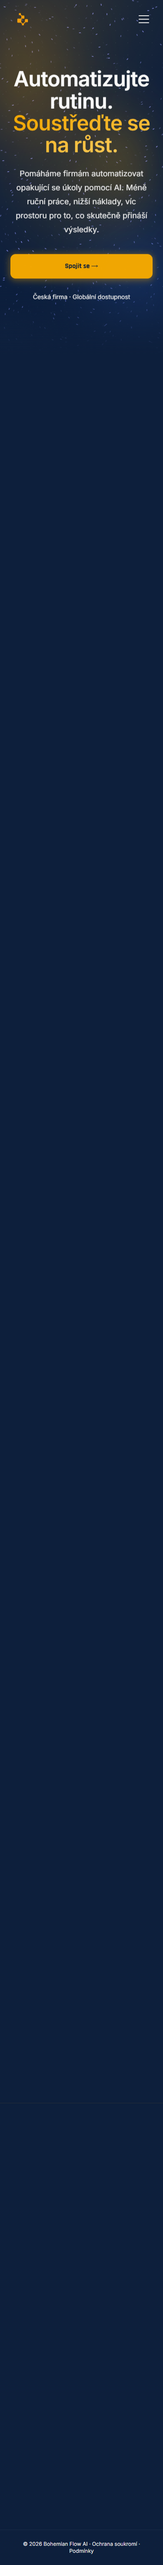
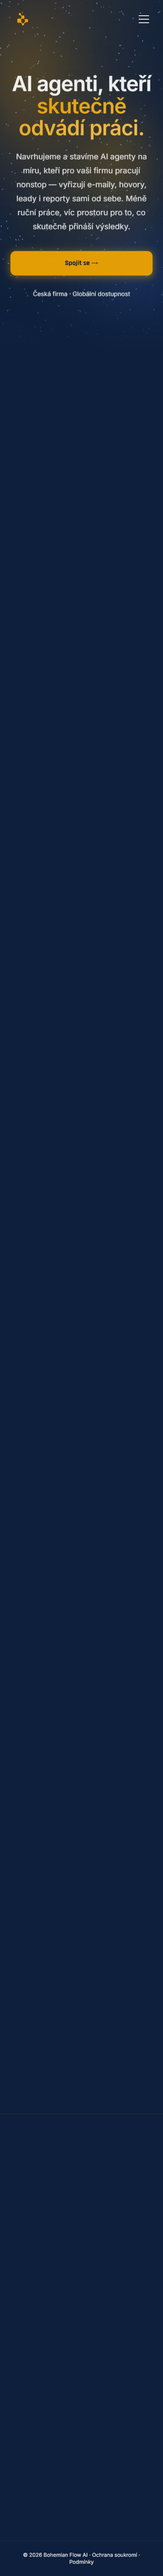
Niche down positioning to Custom AI Agents
Reframe site copy from broad AI automation agency to custom AI agents: hero, nav, footer, and all 8 topic cards now speak in agent terms (Sales Agent, Ops Agent, Data Agent, Reporting Agent, etc.), and the lead form asks what kind of agent the visitor needs. Keeps existing layout, colors, and animations untouched.

Changed region(s): [[0.0587, 0.0, 0.9387, 0.1247]]

diff --git a/index.html b/index.html
@@ -3,7 +3,7 @@
 <head>
   <meta charset="UTF-8" />
   <meta name="viewport" content="width=device-width, initial-scale=1.0" />
-  <title data-i18n="page.title">Bohemian Flow — AI Consulting & Automation Agency</title>
+  <title data-i18n="page.title">Bohemian Flow — Custom AI Agents</title>
 
   <!-- Google Fonts -->
   <link rel="preconnect" href="https://fonts.googleapis.com" />
@@ -666,12 +666,12 @@
     <div class="relative z-10 max-w-3xl mx-auto text-center">
       <!-- H1 Hero -->
       <h1 class="text-white font-display font-bold mb-6 reveal reveal-delay-2" style="font-size: var(--text-hero); line-height: 1.05; letter-spacing: -0.02em;" data-i18n="hero.heading">
-        Grow Your Business <span class="text-gradient-orange">Without Growing Your Headcount</span>
+        AI Agents That Actually <span class="text-gradient-orange">Get Work Done.</span>
       </h1>
 
       <!-- Subheading -->
       <p class="text-ghost text-lg md:text-xl leading-8 max-w-2xl mx-auto mb-10 reveal reveal-delay-3" data-i18n="hero.subheading">
-        We design and implement intelligent automation workflows and AI agents orchestration that replace manual work, accelerate growth, and give your team superpowers.
+        We design and build custom AI agents that work your business round the clock — handling emails, calls, leads, and reporting on their own. Less manual work, more room for what actually drives results.
       </p>
 
       <!-- CTAs -->
@@ -712,14 +712,14 @@
           <div class="flex flex-col items-center text-center reveal reveal-delay-2">
             <div class="w-16 h-16 rounded-full bg-orange flex items-center justify-center font-display font-bold text-navy text-2xl mb-6 shadow-orange flex-shrink-0">2</div>
             <h3 class="text-white font-display font-bold text-lg md:text-xl mb-3" data-i18n="howWeWork.step2_title">Audit & Plan</h3>
-            <p class="text-ghost text-sm leading-6" data-i18n="howWeWork.step2_desc">We map your workflows and identify the highest-leverage automation opportunities.</p>
+            <p class="text-ghost text-sm leading-6" data-i18n="howWeWork.step2_desc">We map your processes and identify where a custom AI agent has the highest leverage.</p>
           </div>
 
           <!-- Step 3 -->
           <div class="flex flex-col items-center text-center reveal reveal-delay-3">
             <div class="w-16 h-16 rounded-full bg-orange flex items-center justify-center font-display font-bold text-navy text-2xl mb-6 shadow-orange flex-shrink-0">3</div>
             <h3 class="text-white font-display font-bold text-lg md:text-xl mb-3" data-i18n="howWeWork.step3_title">Build & Test</h3>
-            <p class="text-ghost text-sm leading-6" data-i18n="howWeWork.step3_desc">We build and rigorously test your custom automations before they touch production.</p>
+            <p class="text-ghost text-sm leading-6" data-i18n="howWeWork.step3_desc">We build and rigorously test your custom AI agent before it touches production.</p>
           </div>
 
           <!-- Step 4 -->
@@ -739,7 +739,7 @@
       <!-- Section Header -->
       <div class="text-center mb-16 reveal">
         <p class="text-orange font-display font-semibold uppercase tracking-widest text-xs mb-3" data-i18n="topics.label">What We Build</p>
-        <h2 class="text-white font-display font-bold" style="font-size: var(--text-section); line-height: 1.1;" data-i18n="topics.heading">Our Automation Specializations</h2>
+        <h2 class="text-white font-display font-bold" style="font-size: var(--text-section); line-height: 1.1;" data-i18n="topics.heading">Meet Your AI Agents</h2>
       </div>
 
       <!-- Topic Grid -->
@@ -756,15 +756,15 @@
         <div class="topic-card bg-navy-light rounded-xl p-6 reveal reveal-delay-2">
           <svg class="w-6 h-6 text-orange mb-3" fill="none" stroke="currentColor" stroke-width="1.75" viewBox="0 0 24 24" aria-hidden="true"><path stroke-linecap="round" stroke-linejoin="round" d="M12 6.042A8.967 8.967 0 0 0 6 3.75c-1.052 0-2.062.18-3 .512v14.25A8.987 8.987 0 0 1 6 18c2.305 0 4.408.867 6 2.292m0-14.25a8.966 8.966 0 0 1 6-2.292c1.052 0 2.062.18 3 .512v14.25A8.987 8.987 0 0 0 18 18a8.967 8.967 0 0 0-6 2.292m0-14.25v14.25"/></svg>
           <span class="inline-block bg-orange/12 text-orange text-xs font-semibold uppercase tracking-wider px-3 py-1 rounded-md mb-4" data-i18n="topics.t2.tag">RAG</span>
-          <h3 class="font-display font-bold text-lg text-white mb-2" data-i18n="topics.t2.title">Smarter Chatbot</h3>
+          <h3 class="font-display font-bold text-lg text-white mb-2" data-i18n="topics.t2.title">Knowledge Agent</h3>
           <p class="text-ghost text-sm" data-i18n="topics.t2.desc">Unlike a regular chatbot, this one reads your actual documents, price lists, or knowledge base — and answers from that. Always up to date.</p>
         </div>
 
-        <!-- Topic 3 — Lead Agent -->
+        <!-- Topic 3 — Sales Agent -->
         <div class="topic-card bg-navy-light rounded-xl p-6 reveal reveal-delay-3">
           <svg class="w-6 h-6 text-orange mb-3" fill="none" stroke="currentColor" stroke-width="1.75" viewBox="0 0 24 24" aria-hidden="true"><path stroke-linecap="round" stroke-linejoin="round" d="M18 7.5v3m0 0v3m0-3h3m-3 0h-3m-2.25-4.125a3.375 3.375 0 1 1-6.75 0 3.375 3.375 0 0 1 6.75 0ZM3 19.235v-.11a6.375 6.375 0 0 1 12.75 0v.109A12.318 12.318 0 0 1 9.374 21c-2.331 0-4.512-.645-6.374-1.766Z"/></svg>
           <span class="inline-block bg-orange/12 text-orange text-xs font-semibold uppercase tracking-wider px-3 py-1 rounded-md mb-4" data-i18n="topics.t3.tag">LeadGen</span>
-          <h3 class="font-display font-bold text-lg text-white mb-2" data-i18n="topics.t3.title">Lead Agent</h3>
+          <h3 class="font-display font-bold text-lg text-white mb-2" data-i18n="topics.t3.title">Sales Agent</h3>
           <p class="text-ghost text-sm" data-i18n="topics.t3.desc">Finds companies that match your ideal customer, enriches the data, and sends a personalized first message. Warm leads without lifting a finger.</p>
         </div>
 
@@ -776,11 +776,11 @@
           <p class="text-ghost text-sm" data-i18n="topics.t4.desc">Picks a topic, researches it, writes the post, and publishes it to your channels on a schedule. Your social presence keeps running while you focus on the business.</p>
         </div>
 
-        <!-- Topic 5 — Web Scraper -->
+        <!-- Topic 5 — Data Agent -->
         <div class="topic-card bg-navy-light rounded-xl p-6 reveal reveal-delay-1">
           <svg class="w-6 h-6 text-orange mb-3" fill="none" stroke="currentColor" stroke-width="1.75" viewBox="0 0 24 24" aria-hidden="true"><path stroke-linecap="round" stroke-linejoin="round" d="M20.25 6.375c0 2.278-3.694 4.125-8.25 4.125S3.75 8.653 3.75 6.375m16.5 0c0-2.278-3.694-4.125-8.25-4.125S3.75 4.097 3.75 6.375m16.5 0v11.25c0 2.278-3.694 4.125-8.25 4.125s-8.25-1.847-8.25-4.125V6.375m16.5 5.625c0 2.278-3.694 4.125-8.25 4.125s-8.25-1.847-8.25-4.125"/></svg>
           <span class="inline-block bg-orange/12 text-orange text-xs font-semibold uppercase tracking-wider px-3 py-1 rounded-md mb-4" data-i18n="topics.t5.tag">Data</span>
-          <h3 class="font-display font-bold text-lg text-white mb-2" data-i18n="topics.t5.title">Web Scraper</h3>
+          <h3 class="font-display font-bold text-lg text-white mb-2" data-i18n="topics.t5.title">Data Agent</h3>
           <p class="text-ghost text-sm" data-i18n="topics.t5.desc">Automatically collects prices, listings, or leads from websites every morning and drops clean rows into your spreadsheet or database.</p>
         </div>
 
@@ -792,19 +792,19 @@
           <p class="text-ghost text-sm" data-i18n="topics.t6.desc">An AI agent that calls your leads, handles inbound inquiries, and books meetings — in natural voice conversation. Available in any language, 24/7, at scale.</p>
         </div>
 
-        <!-- Topic 7 — CRM Automation -->
+        <!-- Topic 7 — Ops Agent -->
         <div class="topic-card bg-navy-light rounded-xl p-6 reveal reveal-delay-3">
           <svg class="w-6 h-6 text-orange mb-3" fill="none" stroke="currentColor" stroke-width="1.75" viewBox="0 0 24 24" aria-hidden="true"><path stroke-linecap="round" stroke-linejoin="round" d="M15 9h3.75M15 12h3.75M15 15h3.75M4.5 19.5h15a2.25 2.25 0 0 0 2.25-2.25V6.75A2.25 2.25 0 0 0 19.5 4.5h-15a2.25 2.25 0 0 0-2.25 2.25v10.5A2.25 2.25 0 0 0 4.5 19.5Zm6-10.125a1.875 1.875 0 1 1-3.75 0 1.875 1.875 0 0 1 3.75 0Zm1.294 6.336a6.721 6.721 0 0 1-3.17.789 6.721 6.721 0 0 1-3.168-.789 3.376 3.376 0 0 1 6.338 0Z"/></svg>
           <span class="inline-block bg-orange/12 text-orange text-xs font-semibold uppercase tracking-wider px-3 py-1 rounded-md mb-4" data-i18n="topics.t7.tag">CRM</span>
-          <h3 class="font-display font-bold text-lg text-white mb-2" data-i18n="topics.t7.title">CRM Automation</h3>
+          <h3 class="font-display font-bold text-lg text-white mb-2" data-i18n="topics.t7.title">Ops Agent</h3>
           <p class="text-ghost text-sm" data-i18n="topics.t7.desc">Contacts, deals, and tasks update themselves. When a lead fills a form, the CRM record is created, tagged, and assigned — before anyone even checks their inbox.</p>
         </div>
 
-        <!-- Topic 8 — Automated Reporting -->
+        <!-- Topic 8 — Reporting Agent -->
         <div class="topic-card bg-navy-light rounded-xl p-6 reveal reveal-delay-4">
           <svg class="w-6 h-6 text-orange mb-3" fill="none" stroke="currentColor" stroke-width="1.75" viewBox="0 0 24 24" aria-hidden="true"><path stroke-linecap="round" stroke-linejoin="round" d="M3 13.125C3 12.504 3.504 12 4.125 12h2.25c.621 0 1.125.504 1.125 1.125v6.75C7.5 20.496 6.996 21 6.375 21h-2.25A1.125 1.125 0 0 1 3 19.875v-6.75ZM9.75 8.625c0-.621.504-1.125 1.125-1.125h2.25c.621 0 1.125.504 1.125 1.125v11.25c0 .621-.504 1.125-1.125 1.125h-2.25a1.125 1.125 0 0 1-1.125-1.125V8.625ZM16.5 4.125c0-.621.504-1.125 1.125-1.125h2.25C20.496 3 21 3.504 21 4.125v15.75c0 .621-.504 1.125-1.125 1.125h-2.25a1.125 1.125 0 0 1-1.125-1.125V4.125Z"/></svg>
           <span class="inline-block bg-orange/12 text-orange text-xs font-semibold uppercase tracking-wider px-3 py-1 rounded-md mb-4" data-i18n="topics.t8.tag">Reporting</span>
-          <h3 class="font-display font-bold text-lg text-white mb-2" data-i18n="topics.t8.title">Automated Reporting</h3>
+          <h3 class="font-display font-bold text-lg text-white mb-2" data-i18n="topics.t8.title">Reporting Agent</h3>
           <p class="text-ghost text-sm" data-i18n="topics.t8.desc">Every week or month, a report on your key metrics lands in your inbox automatically. No manual exports, no spreadsheet juggling.</p>
         </div>
       </div>
@@ -829,7 +829,7 @@
             <span data-i18n="about.label">About</span><span> </span><span data-i18n="about.heading">Zakladateli</span>
           </h1>
           <h2 class="text-white font-display font-semibold mb-6" style="font-size: calc(var(--text-section) * 0.6); line-height: 1.2;" data-i18n="about.subheading">Jakub Nemcok</h2>
-          <p class="text-ghost leading-8 mb-8" data-i18n="about.bio">I'm Jakub, founder of Bohemian Flow. I help businesses escape manual work by building custom AI automations and intelligent workflows. If it's repetitive, we automate it.</p>
+          <p class="text-ghost leading-8 mb-8" data-i18n="about.bio">I'm Jakub, founder of Bohemian Flow. I help businesses escape manual work by building custom AI agents. If it's repetitive, we build an agent for it.</p>
           <div class="flex flex-wrap gap-4">
             <a href="https://www.linkedin.com/in/jakub-nem%C4%8Dok-770484370/" class="btn-ghost text-sm" data-i18n="about.cta_linkedin" target="_blank" rel="noopener noreferrer">LinkedIn</a>
           </div>
@@ -1408,14 +1408,14 @@
             </div>
 
             <div class="modal-field">
-              <label class="modal-label"><span data-i18n="form.automate_label">What do you want to automate?</span> <span class="text-orange">*</span></label>
+              <label class="modal-label"><span data-i18n="form.automate_label">What kind of agent do you need?</span> <span class="text-orange">*</span></label>
               <input type="hidden" id="q-automate" name="automate" value="" />
               <div class="chip-group" id="automate-chips">
-                <button type="button" class="chip" data-value="customer-service" data-i18n="form.automate_opt_cs">Customer service</button>
-                <button type="button" class="chip" data-value="lead-generation" data-i18n="form.automate_opt_lg">Lead generation</button>
-                <button type="button" class="chip" data-value="internal-processes" data-i18n="form.automate_opt_ip">Internal processes</button>
-                <button type="button" class="chip" data-value="marketing-content" data-i18n="form.automate_opt_mc">Marketing &amp; content</button>
-                <button type="button" class="chip" data-value="data-reports" data-i18n="form.automate_opt_dr">Data reports</button>
+                <button type="button" class="chip" data-value="customer-service" data-i18n="form.automate_opt_cs">Support agent</button>
+                <button type="button" class="chip" data-value="lead-generation" data-i18n="form.automate_opt_lg">Sales agent</button>
+                <button type="button" class="chip" data-value="internal-processes" data-i18n="form.automate_opt_ip">Ops agent</button>
+                <button type="button" class="chip" data-value="marketing-content" data-i18n="form.automate_opt_mc">Content agent</button>
+                <button type="button" class="chip" data-value="data-reports" data-i18n="form.automate_opt_dr">Data / reporting agent</button>
                 <button type="button" class="chip" data-value="not-sure" data-i18n="form.automate_opt_ns">Not sure</button>
               </div>
             </div>

diff --git a/translations/cs.js b/translations/cs.js
@@ -1,19 +1,19 @@
 window.translations = window.translations || {};
 window.translations.cs = {
   page: {
-    title: 'Bohemian Flow — AI Konzultace & Automatizační Agentura'
+    title: 'Bohemian Flow — AI Agenti na míru'
   },
   nav: {
     howWeWork: 'Jak pracujeme',
-    work:      'Specializace',
+    work:      'Naši agenti',
     cta:       'Spojit se →'
   },
   hero: {
-    eyebrow:      '◈ AI Konzultace & Automatizační Agentura',
-    heading:      'Automatizujte rutinu. <span class="text-gradient-orange">Soustřeďte se na růst.</span>',
-    subheading:   'Pomáháme firmám automatizovat opakující se úkoly pomocí AI. Méně ruční práce, nižší náklady, víc prostoru pro to, co skutečně přináší výsledky.',
+    eyebrow:      '◈ AI Agenti na míru',
+    heading:      'AI agenti, kteří <span class="text-gradient-orange">skutečně odvádí práci.</span>',
+    subheading:   'Navrhujeme a stavíme AI agenty na míru, kteří pro vaši firmu pracují nonstop — vyřizují e-maily, hovory, leady i reporty sami od sebe. Méně ruční práce, víc prostoru pro to, co skutečně přináší výsledky.',
     cta_primary:  'Spojit se →',
-    cta_secondary:'Zobrazit naše práce ↓',
+    cta_secondary:'Zobrazit naše agenty ↓',
     social_proof: 'Česká firma · Globální dostupnost'
   },
   howWeWork: {
@@ -22,34 +22,34 @@ window.translations.cs = {
     step1_title: 'Discovery call',
     step1_desc:  'Poznáme vaše podnikání, cíle a nástroje, které aktuálně používáte.',
     step2_title: 'Audit & plán',
-    step2_desc:  'Zmapujeme vaše procesy a najdeme místa, kde automatizace přinese největší efekt.',
+    step2_desc:  'Zmapujeme vaše procesy a najdeme místa, kde AI agent přinese největší efekt.',
     step3_title: 'Stavba & testování',
-    step3_desc:  'Postavíme vaše automatizace a důkladně je otestujeme, než se nasadí do aktivního provozu.',
+    step3_desc:  'Postavíme vašeho AI agenta na míru a důkladně ho otestujeme, než se nasadí do aktivního provozu.',
     step4_title: 'Nasazení & podpora',
     step4_desc:  'Spustíme, monitorujeme a vylepšujeme — průběžná podpora je součástí.'
   },
   topics: {
     label:   'Co stavíme',
-    heading: 'Naše automatizační specializace',
+    heading: 'Poznejte naše AI agenty',
     t1: { tag: 'Email',   title: 'E-mailový agent',     desc: 'Přečte váš inbox, roztřídí e-maily do složek, napíše odpověď vaším stylem a upozorní vás jen na to, co vyžaduje vás. Inbox funguje sám.' },
-    t2: { tag: 'RAG',     title: 'Znalostní asistent',   desc: 'Čte vaše dokumenty, ceníky nebo znalostní bázi a odpovídá z nich — ne z domněnek. Vždy aktuální, bez vymýšlení. Napojíme ho na WhatsApp, Telegram nebo přímo na váš web.' },
-    t3: { tag: 'LeadGen', title: 'Agent pro leady',     desc: 'Najde firmy, které odpovídají vašemu ideálnímu zákazníkovi, obohatí data a pošle personalizovanou první zprávu. Dostanete seznam leadů — bez jediného kliknutí.' },
+    t2: { tag: 'RAG',     title: 'Znalostní agent',     desc: 'Čte vaše dokumenty, ceníky nebo znalostní bázi a odpovídá z nich — ne z domněnek. Vždy aktuální, bez vymýšlení. Napojíme ho na WhatsApp, Telegram nebo přímo na váš web.' },
+    t3: { tag: 'Sales',   title: 'Obchodní agent',      desc: 'Najde firmy, které odpovídají vašemu ideálnímu zákazníkovi, obohatí data a pošle personalizovanou první zprávu. Dostanete seznam leadů — bez jediného kliknutí.' },
     t4: { tag: 'Obsah',   title: 'Agent pro obsah',     desc: 'Vybere téma, nastuduje ho, napíše příspěvek a zveřejní ho na vašich kanálech — podle plánu. Vaše online přítomnost běží dál, zatímco vy řídíte firmu.' },
-    t5: { tag: 'Data',    title: 'Web scraper',         desc: 'Každé ráno automaticky stáhne ceny, inzeráty nebo kontakty z webů a uloží je čistě do tabulky nebo databáze. Vždy aktuální, bez ručního procházení.' },
-    t6: { tag: 'Voice AI', title: 'Hlasový AI agent',   desc: 'AI agent, který volá vašim leadům, přijímá příchozí dotazy a domlouvá schůzky — přirozeným hlasem. Dostupný v jakémkoliv jazyce, nonstop.' },
-    t7: { tag: 'CRM',     title: 'CRM automatizace',    desc: 'Kontakty, obchody a úkoly se aktualizují samy. Když lead vyplní formulář, záznam v CRM se vytvoří, označí a přiřadí — dřív než někdo zkontroluje inbox.' },
-    t8: { tag: 'Reporting', title: 'Automatický reporting', desc: 'Každý týden nebo měsíc dostanete přehled klíčových čísel — tržby, leady, výkon kampaní — rovnou do inboxu. Žádné ruční stahování, žádné přepínání tabulek.' }
+    t5: { tag: 'Data',    title: 'Datový agent',        desc: 'Každé ráno automaticky stáhne ceny, inzeráty nebo kontakty z webů a uloží je čistě do tabulky nebo databáze. Vždy aktuální, bez ručního procházení.' },
+    t6: { tag: 'Voice AI', title: 'Hlasový agent',      desc: 'AI agent, který volá vašim leadům, přijímá příchozí dotazy a domlouvá schůzky — přirozeným hlasem. Dostupný v jakémkoliv jazyce, nonstop.' },
+    t7: { tag: 'Ops',     title: 'Provozní agent',      desc: 'Kontakty, obchody a úkoly se aktualizují samy. Když lead vyplní formulář, záznam v CRM se vytvoří, označí a přiřadí — dřív než někdo zkontroluje inbox.' },
+    t8: { tag: 'Reporting', title: 'Reportingový agent', desc: 'Každý týden nebo měsíc dostanete přehled klíčových čísel — tržby, leady, výkon kampaní — rovnou do inboxu. Žádné ruční stahování, žádné přepínání tabulek.' }
   },
   about: {
     label:        'O',
     heading:      'Zakladateli',
     subheading:   'Jakub Nemčok',
-    bio:          'Pomáhám firmám nahradit manuální práci inteligentními systémy — aby se váš tým mohl soustředit na to, co skutečně posouvá podnikání kupředu.<br><br>S pozadím v IT infrastruktuře a praktickými zkušenostmi s vývojem AI automatizací přináším do každého projektu technickou hloubku i pragmatické myšlení. Sídlím v Praze a pracuji se společnostmi připravenými stavět chytřeji.',
+    bio:          'Pomáhám firmám nahradit manuální práci AI agenty na míru — aby se váš tým mohl soustředit na to, co skutečně posouvá podnikání kupředu.<br><br>S pozadím v IT infrastruktuře a praktickými zkušenostmi s vývojem AI agentů přináším do každého projektu technickou hloubku i pragmatické myšlení. Sídlím v Praze a pracuji se společnostmi připravenými stavět chytřeji.',
     cta_email:    'Napsat e-mail',
     cta_linkedin: 'LinkedIn'
   },
   footer: {
-    tagline:          'AI konzultace & automatizační agentura. Stavíme systémy, které škálují vaše podnikání.',
+    tagline:          'Navrhujeme a stavíme AI agenty na míru, kteří škálují vaše podnikání.',
     services_heading: 'Navigace',
     service1:         'Jak pracujeme',
     service2:         'Specializace',
@@ -103,12 +103,12 @@ window.translations.cs = {
     size_opt_3:       '51–200',
     size_opt_4:       '200+',
 
-    automate_label:   'Co chcete automatizovat?',
-    automate_opt_cs:  'Zákaznický servis',
-    automate_opt_lg:  'Lead generation',
-    automate_opt_ip:  'Interní procesy',
-    automate_opt_mc:  'Marketing & obsah',
-    automate_opt_dr:  'Datové reporty',
+    automate_label:   'Jakého agenta potřebujete?',
+    automate_opt_cs:  'Zákaznická podpora',
+    automate_opt_lg:  'Obchodní agent',
+    automate_opt_ip:  'Provozní agent',
+    automate_opt_mc:  'Agent pro obsah',
+    automate_opt_dr:  'Datový / reportingový agent',
     automate_opt_ns:  'Nejsem si jistý',
 
     budget_label:     'Rozpočet projektu',

diff --git a/translations/en.js b/translations/en.js
@@ -1,19 +1,19 @@
 window.translations = window.translations || {};
 window.translations.en = {
   page: {
-    title: 'Bohemian Flow — AI Consulting & Automation Agency'
+    title: 'Bohemian Flow — Custom AI Agents'
   },
   nav: {
     howWeWork: 'How We Work',
-    work:      'Specializations',
+    work:      'Our Agents',
     cta:       'Get in Touch →'
   },
   hero: {
-    eyebrow:      '◈ AI Consulting & Automation Agency',
-    heading:      'Automate the Routine. <span class="text-gradient-orange">Focus on Growth.</span>',
-    subheading:   'We help businesses automate repetitive tasks with AI. Less manual work, lower costs, more room for what actually drives results.',
+    eyebrow:      '◈ Custom AI Agents',
+    heading:      'AI Agents That Actually <span class="text-gradient-orange">Get Work Done.</span>',
+    subheading:   'We design and build custom AI agents that work your business round the clock — handling emails, calls, leads, and reporting on their own. Less manual work, more room for what actually drives results.',
     cta_primary:  'Get in Touch →',
-    cta_secondary:'See Our Work ↓',
+    cta_secondary:'See Our Agents ↓',
     social_proof: 'Czech-based · Available globally'
   },
   howWeWork: {
@@ -22,34 +22,34 @@ window.translations.en = {
     step1_title: 'Discovery Call',
     step1_desc:  'We understand your business, goals, and the tools you currently use.',
     step2_title: 'Audit & Plan',
-    step2_desc:  'We map your processes and identify the highest-leverage automation opportunities.',
+    step2_desc:  'We map your processes and identify where a custom AI agent has the highest leverage.',
     step3_title: 'Build & Test',
-    step3_desc:  'We build and rigorously test your custom automations before they touch production.',
+    step3_desc:  'We build and rigorously test your custom AI agent before it touches production.',
     step4_title: 'Deploy & Support',
     step4_desc:  'We launch, monitor, and iterate — with ongoing support included.'
   },
   topics: {
     label:   'What We Build',
-    heading: 'Our Automation Specializations',
+    heading: 'Meet Your AI Agents',
     t1: { tag: 'Email',   title: 'Email Agent',       desc: 'Reads your inbox, sorts emails into folders, drafts replies in your tone, and flags only what needs your attention. Your inbox works — you just check in.' },
-    t2: { tag: 'RAG',     title: 'Knowledge Assistant',   desc: 'Reads your documents, price lists, or knowledge base — and answers from those, not from guesswork. Always current, no hallucinations. Deploy on WhatsApp, Telegram, or as a chat widget on your site.' },
-    t3: { tag: 'LeadGen', title: 'Lead Agent',        desc: 'Finds companies that match your ideal customer, enriches the data, and sends a personalized first message. You get a list of warm leads — without lifting a finger.' },
+    t2: { tag: 'RAG',     title: 'Knowledge Agent',   desc: 'Reads your documents, price lists, or knowledge base — and answers from those, not from guesswork. Always current, no hallucinations. Deploy on WhatsApp, Telegram, or as a chat widget on your site.' },
+    t3: { tag: 'Sales',   title: 'Sales Agent',       desc: 'Finds companies that match your ideal customer, enriches the data, and sends a personalized first message. You get a list of warm leads — without lifting a finger.' },
     t4: { tag: 'Content', title: 'Content Agent',     desc: 'Picks a topic, researches it, writes the post, and publishes it to your channels — on a schedule. Your social presence keeps running while you focus on the business.' },
-    t5: { tag: 'Data',    title: 'Web Scraper',       desc: 'Automatically collects prices, listings, or leads from websites every morning and drops clean rows into your spreadsheet or database. Always fresh, no manual checking.' },
-    t6: { tag: 'Voice AI', title: 'Voice AI Agent',    desc: 'An AI agent that calls your leads, handles inbound inquiries, and books meetings — in natural voice conversation. Available in any language, 24/7, at scale.' },
-    t7: { tag: 'CRM',     title: 'CRM Automation',    desc: 'Contacts, deals, and tasks update themselves. When a lead fills a form, the CRM record is created, tagged, and assigned — before anyone even checks their inbox.' },
-    t8: { tag: 'Reporting', title: 'Automated Reporting', desc: 'Every week or month, a report on your key metrics — revenue, leads, campaign performance — lands in your inbox automatically. No manual exports, no spreadsheet juggling.' }
+    t5: { tag: 'Data',    title: 'Data Agent',        desc: 'Automatically collects prices, listings, or leads from websites every morning and drops clean rows into your spreadsheet or database. Always fresh, no manual checking.' },
+    t6: { tag: 'Voice AI', title: 'Voice Agent',       desc: 'An AI agent that calls your leads, handles inbound inquiries, and books meetings — in natural voice conversation. Available in any language, 24/7, at scale.' },
+    t7: { tag: 'Ops',     title: 'Ops Agent',         desc: 'Contacts, deals, and tasks update themselves. When a lead fills a form, the CRM record is created, tagged, and assigned — before anyone even checks their inbox.' },
+    t8: { tag: 'Reporting', title: 'Reporting Agent', desc: 'Every week or month, a report on your key metrics — revenue, leads, campaign performance — lands in your inbox automatically. No manual exports, no spreadsheet juggling.' }
   },
   about: {
     label:      'About',
     heading:    'The Founder',
     subheading: 'Jakub Nemcok',
-    bio:        'I help businesses replace manual work with intelligent systems — so your team can focus on what actually moves the needle.<br><br>With a background in IT infrastructure and hands-on experience building AI automations, I bring both technical depth and practical thinking to every engagement. Based in Prague, working with companies ready to build smarter.',
+    bio:        'I help businesses replace manual work with custom AI agents — so your team can focus on what actually moves the needle.<br><br>With a background in IT infrastructure and hands-on experience building AI agents, I bring both technical depth and practical thinking to every engagement. Based in Prague, working with companies ready to build smarter.',
     cta_email:  'Send an Email',
     cta_linkedin: 'LinkedIn'
   },
   footer: {
-    tagline:          'AI consulting & automation agency. We build the systems that scale your business.',
+    tagline:          'We design and build custom AI agents that scale your business.',
     services_heading: 'Navigate',
     service1:         'How We Work',
     service2:         'Specializations',
@@ -103,12 +103,12 @@ window.translations.en = {
     size_opt_3:       '51–200',
     size_opt_4:       '200+',
 
-    automate_label:   'What do you want to automate?',
-    automate_opt_cs:  'Customer service',
-    automate_opt_lg:  'Lead generation',
-    automate_opt_ip:  'Internal processes',
-    automate_opt_mc:  'Marketing & content',
-    automate_opt_dr:  'Data reports',
+    automate_label:   'What kind of agent do you need?',
+    automate_opt_cs:  'Support agent',
+    automate_opt_lg:  'Sales agent',
+    automate_opt_ip:  'Ops agent',
+    automate_opt_mc:  'Content agent',
+    automate_opt_dr:  'Data / reporting agent',
     automate_opt_ns:  'Not sure',
 
     budget_label:     'Project Budget',
